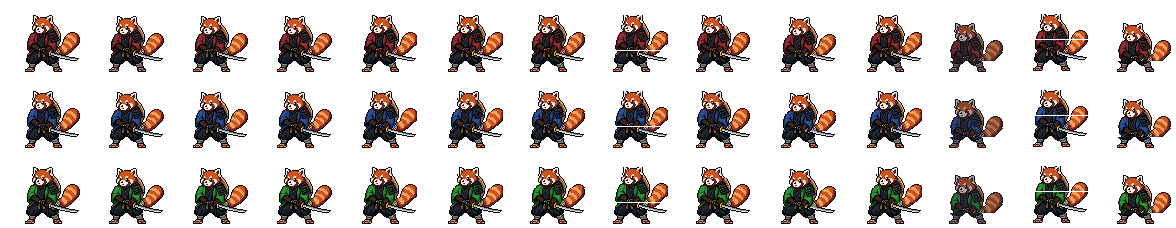
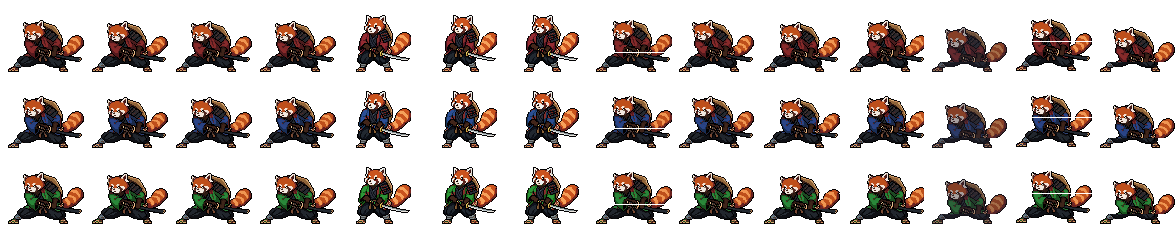
Samurai: idle in a low iaido crouch, hand on the sheathed sword
The battle sheet's idle, defend, hurt and other poses come from a PixelLab
crouch; the strike frames use the blade-out stance so he draws as he hits.
Coat-only recolour fixed for the new pose; head and tail keep their colours.

Claude-Session: https://claude.ai/code/session_01Na4BQSfsgPtUoSBxCa6yoU

diff --git a/tools/build_ranger.py b/tools/build_ranger.py
@@ -26,7 +26,9 @@ CONFIGS = {
     'cleric:f': dict(src='cleric_f_base.png', sheet='cleric', variants=[0, 0.62, 0.36], tint=dict(lo=0.93, hi=0.04, smin=0.25, lmax=0.7, wrap=True), scale=0.85),  # red, blue, green cape
     'cleric:m': dict(src='cleric_m_base.png', sheet='cleric_m', variants=[0, 0.16, -0.12], tint=dict(lo=0.55, hi=0.75, smin=0.12, lmax=0.8), scale=0.93),           # blue, violet, teal robe
     # the fur shares the coat's reds, so only the coat area is recoloured (region: x0, y0, x1, y1 in the base image)
-    'samurai:m': dict(src='samurai_base.png', sheet='samurai', variants=[0, 0.62, 0.36], tint=dict(lo=0.94, hi=0.02, smin=0.4, lmax=0.45, wrap=True, region=(0, 19, 34, 50)), aliases=['samurai:f'], face=(4, 0)),  # crimson, indigo, jade haori
+    # the samurai idles in a low iaido crouch, hand on the sheathed sword (samurai_iai_base.png, PixelLab edit_image at 0.92),
+    # and the attack frames use the blade-out stance (samurai_base.png), so he visibly draws when he strikes
+    'samurai:m': dict(src='samurai_iai_base.png', swing_src='samurai_base.png', sheet='samurai', variants=[0, 0.62, 0.36], samurai=True, aliases=['samurai:f'], face=(14, 1), keep=[(13, 0, 37, 21), (52, 12, 76, 38)], swing_keep=[(4, 0, 30, 17), (34, 15, 55, 40)]),  # crimson, indigo, jade haori
 }
 
 def anchor_x(im):
@@ -54,6 +56,7 @@ def build_one(key):
     W, H = base.size
     ground = max(y for y in range(H) for x in range(W) if base.getpixel((x, y))[3]) + 1
     OX, OY = AX - anchor_x(base), AY - ground
+    OX = max(0, min(OX, FW - W))   # a wide stance: keep the whole sprite (tail included) inside the frame
     pivot = int(H * 0.72)
     def frame(body, dx=0, dy=0, lean_px=0, upper=None):
         b = body
@@ -66,8 +69,14 @@ def build_one(key):
         k.alpha_composite(body.crop((0, c, W, H)), (0, c)); k.alpha_composite(lean(body.crop((0, 0, W, a)), a, -2), (0, knee))
         f = Image.new('RGBA', (FW, FH)); paste_clip(f, k, (OX, OY))
         return darken(f) if dark else f
-    t = cfg['tint']
-    def shade(im, hs):
+    t = cfg.get('tint', {})
+    def shade(im, hs, keep=None):
+        if cfg.get('samurai'):   # coat only: crimson vs the fur's orange (tools/build_samurai_victory.py)
+            from build_samurai_victory import shade as sam
+            out = sam(im, hs)
+            if hs:   # his head and tail keep their colours (the dark reds of his ears, mask and tail rings look like coat)
+                for box in (keep or cfg.get('keep') or []): out.paste(im.crop(box), box[:2])
+            return out
         if 'region' not in t: return hue_shift(im, t['lo'], t['hi'], hs, t['smin'], t['lmax'], t.get('wrap', False))
         box = t['region']; out = im.copy()
         out.paste(hue_shift(im.crop(box), t['lo'], t['hi'], hs, t['smin'], t['lmax'], t.get('wrap', False)), box[:2])
@@ -82,9 +91,18 @@ def build_one(key):
             for i in range(4): P['idle%d' % i] = shade(idles[i], hs)
         else:
             P['idle0'] = frame(body); P['idle1'] = frame(body, upper=(up1, 0, 1)); P['idle2'] = frame(body, upper=(up2, 0, 1)); P['idle3'] = P['idle1']
-        P['windup'] = frame(body, lean_px=2, dx=1)
-        P['swing1'] = frame(body, lean_px=3, dx=3)
-        P['swing2'] = frame(body, lean_px=1, dx=1)
+        if 'swing_src' in cfg:   # the strike frames from a second drawing (the samurai: blade drawn), feet on the same spot
+            sw = shade(Image.open(os.path.join(ART_SRC, cfg['swing_src'])).convert('RGBA'), hs, cfg.get('swing_keep'))
+            sg = max(y for y in range(sw.height) for x in range(sw.width) if sw.getpixel((x, y))[3]) + 1
+            sox, soy = OX + anchor_x(base) - anchor_x(sw), AY - sg
+            def sframe(dx=0, lean_px=0):
+                b = lean(sw, int(sw.height * 0.72), lean_px) if lean_px else sw
+                f = Image.new('RGBA', (FW, FH)); paste_clip(f, b, (sox + dx, soy)); return f
+            P['windup'] = sframe(dx=1, lean_px=2); P['swing1'] = sframe(dx=3, lean_px=3); P['swing2'] = sframe(dx=1, lean_px=1)
+        else:
+            P['windup'] = frame(body, lean_px=2, dx=1)
+            P['swing1'] = frame(body, lean_px=3, dx=3)
+            P['swing2'] = frame(body, lean_px=1, dx=1)
         P['cast0'] = frame(body, lean_px=2, upper=(up2, 0, -1))
         P['cast1'] = frame(body, lean_px=-2, dx=-1)
         P['defend'] = frame(body, upper=(int(H * 0.68), 0, 2), lean_px=1)
@@ -95,7 +113,7 @@ def build_one(key):
         sc = cfg.get('scale', 1)
         for pi, name in enumerate(POSES): sheet.alpha_composite(shrink_frame(P[name], sc, AX, AY), (pi * FW, vi * FH))
     sheet.save(os.path.join(OUT_DIR, cfg['sheet'] + '.png'))
-    px, py, pw, ph = (cfg['face'] + (22, 22)) if 'face' in cfg else face_box(base)   # face: the portrait's top-left in the base image, when the fur fools the skin finder
+    px, py, pw, ph = (cfg['face'] + (22, 22)) if cfg.get('face') else face_box(base)   # face: the portrait's top-left in the base image, when the fur fools the skin finder
     sc = cfg.get('scale', 1)
     if sc < 1:   # move the portrait crop to where the face ends up after the shrink
         fx, fy = OX + px + pw / 2, OY + py + ph / 2

diff --git a/tools/build_samurai_victory.py b/tools/build_samurai_victory.py
@@ -42,12 +42,13 @@ if __name__ == '__main__':
 
 # ---- colour variants for the samurai's move sheets
 # His fur shares the coat's hue, so a plain hue range would recolour his ears, mask and tail too. The coat is crimson
-# (its blue channel is above its green), the fur is orange-brown (green above blue): only crimson pixels are shifted.
+# (strongly red, blue at least level with green), the fur is orange-brown (green clearly above blue): only crimson
+# pixels are shifted.
 # This works on any frame, including PixelLab in-betweens with colours the idle doesn't have.
 def is_coat(r, g, b):
     import colorsys
     h, l, s = colorsys.rgb_to_hls(r / 255, g / 255, b / 255)
-    return (h >= 0.9 or h <= 0.02) and s >= 0.3 and 0.06 <= l <= 0.5 and b > g
+    return (h >= 0.9 or h <= 0.02) and s >= 0.3 and 0.06 <= l <= 0.5 and g - b <= 2 and r >= 1.6 * g
 
 def shade(im, hs):
     """Recolour the samurai's coat by hue shift hs (crimson -> indigo / jade), leaving the fur alone."""
